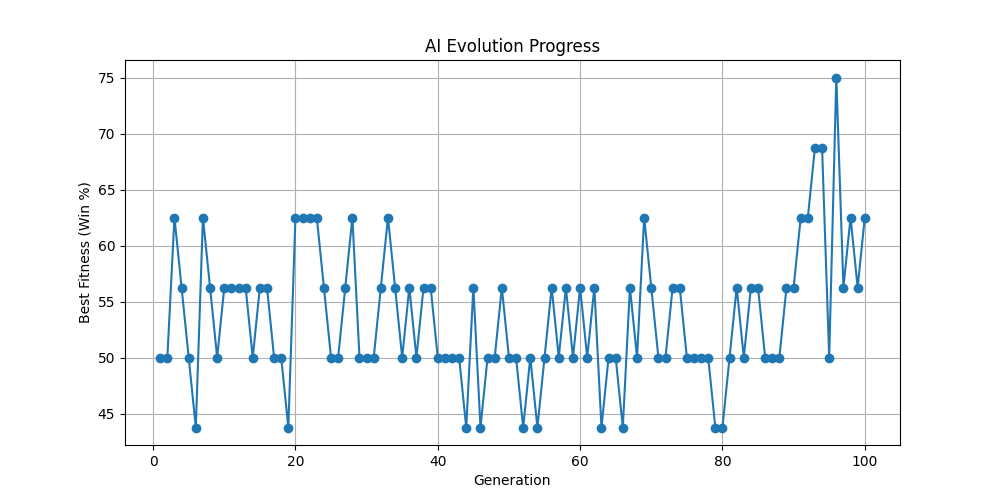
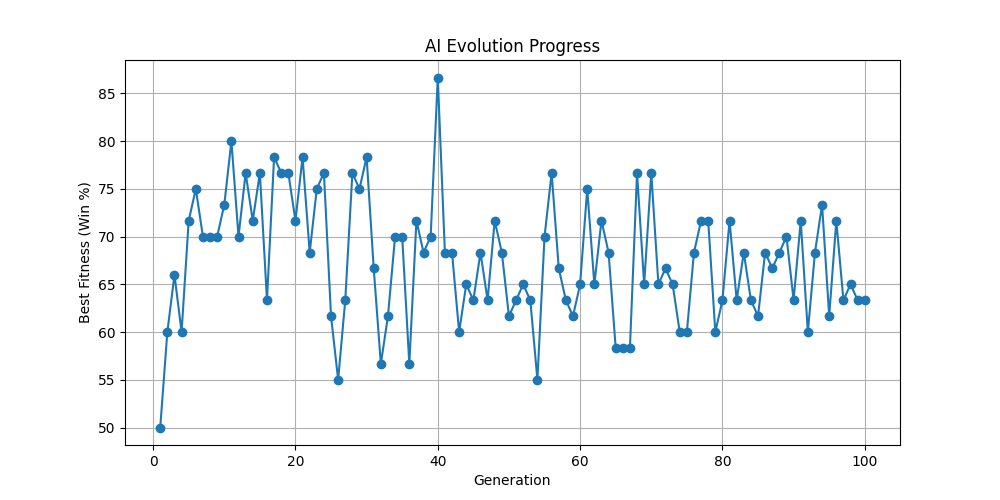
ver6

diff --git a/ga_manager.py b/ga_manager.py
@@ -1,7 +1,36 @@
 import random
 import json
+import multiprocessing
+from concurrent.futures import ProcessPoolExecutor
 from engine import GomokuAnalyzer
 import matplotlib.pyplot as plt
+
+
+# --- 1. 対戦ロジックをトップレベルに移動（並列化のため） ---
+def play_match_worker(args):
+    """
+    並列実行用ワーカー。重みデータのみを受け取って対戦させる。
+    """
+    w1, w2, depth, start_player = args
+    board = GomokuAnalyzer()
+    board.board.fill(0)
+    
+    # 評価関数の重みをセット
+    weights = [None, w1, w2] 
+    
+    current_turn = start_player
+    for _ in range(15 * 15):
+        board.weights = weights[current_turn]
+        r, c = board.get_best_move(depth_limit=depth)
+        
+        if r is not None:
+            board.put_stone(r, c, current_turn)
+            if board.check_win(r, c, current_turn):
+                return current_turn
+        else:
+            return 0 # 引き分け
+        current_turn = 3 - current_turn
+    return 0
 
 class Individual:
     def __init__(self, weights=None):
@@ -10,109 +39,97 @@ class Individual:
             self.analyzer.weights = weights.copy()
         else:
             self.randomize_weights()
-        self.fitness = 0.0  # 勝率（%）
+        self.fitness = 0.0
 
     def randomize_weights(self):
+        # 3. 加算的な初期化（0付近の重みも動くようにする）
         for key in self.analyzer.weights:
-            base_val = self.analyzer.weights[key]
-            # 初期値の0.7～1.3倍の範囲でランダム化
-            self.analyzer.weights[key] = base_val * random.uniform(0.7, 1.3)
-
-def play_match(player1, player2, depth=1):
-    """
-    2つの個体を対戦させる。
-    depth: 探索深さ（デフォルト1）
-    戻り値: 1 (player1勝利), 2 (player2勝利), 0 (引き分け)
-    """
-    board_analyzer = player1.analyzer
-    board_analyzer.board.fill(0)
-    board_analyzer.move_history = []
-    
-    current_turn = 1
-    for _ in range(15 * 15):
-        current_ai = player1 if current_turn == 1 else player2
-        board_analyzer.weights = current_ai.analyzer.weights
-        
-        r, c = board_analyzer.get_best_move(depth_limit=depth)
-        
-        if r is not None:
-            board_analyzer.put_stone(r, c, current_turn)
-            if board_analyzer.check_win(r, c, current_turn):
-                return current_turn
-        else:
-            return 0  # 引き分け（盤面が埋まった）
-        current_turn = 3 - current_turn
-    return 0
+            self.analyzer.weights[key] += random.uniform(-100, 100)
 
 class Generation:
-    def __init__(self, size=16):  # 個体数を16に減らして高速化
+    def __init__(self, size=16):
         self.individuals = [Individual() for _ in range(size)]
         self.generation_number = 1
+        self.hall_of_fame = [] # 歴代最強個体のリスト
 
-    # 修正後のイメージ
-    def evaluate_all(self, elite=None):
-        print(f"第 {self.generation_number} 世代の評価中...")
+    def evaluate_all(self):
+        print(f"第 {self.generation_number} 世代の評価中（並列処理実行中）...")
         
-        # あなたが最初に決めた「初期値」を持つ個体を生成
-        default_analyzer = GomokuAnalyzer()
-        default_ind = Individual(weights=default_analyzer.weights)
-
-        for ind1 in self.individuals:
-            ind1.fitness = 0.0
+        default_weights = GomokuAnalyzer().weights
+        tasks = []
+        
+        # 各個体のタスクを作成
+        for idx, ind in enumerate(self.individuals):
+            # 対戦相手のリスト（デフォルト個体 + HOF個体 + ランダムな仲間2人）
+            opponents = [default_weights]
+            if self.hall_of_fame:
+                opponents.extend(self.hall_of_fame)
             
-            # 対戦相手の数を3人に増やす
-            opponents = [default_ind] + random.sample([i for i in self.individuals if i != ind1], 2)  # 初期個体＋仲間2人
-            if elite:
-                opponents.append(elite)
-            else:
-                # 最初の世代は仲間から選ぶ
-                others = [i for i in self.individuals if i != ind1]
-                opponents.append(random.choice(others))
+            others = [i.analyzer.weights for i in self.individuals if i != ind]
+            opponents.extend(random.sample(others, min(len(others), 2)))
 
-            games_per_pair = 4 
-            for opponent in opponents:
-                for game in range(games_per_pair):
-                    # ここは以前と同じ勝敗ロジック
-                    if game % 2 == 0:
-                        winner = play_match(ind1, opponent, depth=1)
-                        if winner == 1: ind1.fitness += 1
-                    else:
-                        winner = play_match(opponent, ind1, depth=1)
-                        if winner == 2: ind1.fitness += 1
+            # 各相手と先手・後手2回ずつ（計4試合以上）
+            for opp_w in opponents:
+                for game in range(2):
+                    # args: (重み1, 重み2, depth, 先手)
+                    tasks.append((idx, ind.analyzer.weights, opp_w, 1, 1 if game == 0 else 2))
 
-            # 勝率（%）に変換
-            ind1.fitness = (ind1.fitness / (len(opponents) * games_per_pair)) * 100
-        
+        # 2. 並列処理の実行
+       # evaluate_all メソッド内
+        with ProcessPoolExecutor(max_workers=8) as executor:
+            results = list(executor.map(play_match_worker, [(t[1], t[2], t[3], t[4]) for t in tasks]))
+        # 結果の集計
+        for (task, winner) in zip(tasks, results):
+            idx = task[0]
+            start_player = task[4]
+            # 自分が勝った場合（自分が先手で1、または後手で2）
+            if (start_player == 1 and winner == 1) or (start_player == 2 and winner == 2):
+                self.individuals[idx].fitness += 1.0
+            elif winner == 0:
+                self.individuals[idx].fitness += 0.2 # 引き分けにも微少な加点
+
+        # 勝率に換算（試合数で割る）
+        matches_per_ind = len(tasks) // len(self.individuals)
+        for ind in self.individuals:
+            ind.fitness = (ind.fitness / matches_per_ind) * 100
 
     def evolve(self):
-        # fitnessの高い順にソート
         self.individuals.sort(key=lambda x: x.fitness, reverse=True)
         
-        # 上位25%（エリート）を残す（最低1体）
-        elite_count = max(1, len(self.individuals) // 4)
-        next_gen = self.individuals[:elite_count]
+        # 1. Hall of Fame の更新（現世代の1位を保存）
+        best_w = self.individuals[0].analyzer.weights.copy()
+        if not self.hall_of_fame:
+            self.hall_of_fame.append(best_w)
+        else:
+            # 過去のHOFより強ければ入れ替え、あるいは追加
+            self.hall_of_fame = [best_w] + self.hall_of_fame[:2] # 直近3世代のベストを保持
+
+        # エリート保存（上位2体）
+        next_gen = [Individual(weights=i.analyzer.weights) for i in self.individuals[:2]]
         
-        # 残りの枠を子供で埋める
+        # 4. トーナメント選択による次世代生成
         while len(next_gen) < len(self.individuals):
-            parent1 = random.choice(self.individuals[:elite_count])
-            parent2 = random.choice(self.individuals[:elite_count])
+            p1 = self.tournament_selection()
+            p2 = self.tournament_selection()
             
-            # 一様交叉
+            # 交叉
             child_weights = {}
-            for key in parent1.analyzer.weights:
-                if random.random() < 0.5:
-                    child_weights[key] = parent1.analyzer.weights[key]
-                else:
-                    child_weights[key] = parent2.analyzer.weights[key]
+            for key in p1.analyzer.weights:
+                child_weights[key] = p1.analyzer.weights[key] if random.random() < 0.5 else p2.analyzer.weights[key]
                 
-                # 突然変異（10%の確率で0.8～1.2倍）
+                # 3. 加算的な突然変異
                 if random.random() < 0.2:
-                    child_weights[key] *= random.uniform(0.5, 1.5)
+                    child_weights[key] += random.uniform(-200, 200) # スケールに合わせて調整
             
             next_gen.append(Individual(weights=child_weights))
         
         self.individuals = next_gen
         self.generation_number += 1
+
+    def tournament_selection(self, k=3):
+        """k個体をランダムに選び、最も優秀なものを親にする"""
+        selected = random.sample(self.individuals, k)
+        return max(selected, key=lambda x: x.fitness)
 
 def save_fitness_graph(history):
     gens = [h['gen'] for h in history]
@@ -129,16 +146,19 @@ def save_fitness_graph(history):
     plt.show()
 
 if __name__ == "__main__":
-    gen = Generation(size=16)  # 個体数16でスタート
-    history = []
-    current_best_ind = None
+    # Windowsで並列処理を行うためにこれが必要です
+    multiprocessing.freeze_support() 
 
-    for i in range(100):  # 100世代
-        gen.evaluate_all(elite=current_best_ind)
+    gen = Generation(size=16) 
+    history = []
+
+    for i in range(100):
+        # 修正ポイント：引数の (elite=current_best_ind) を消す
+        gen.evaluate_all() 
         
+        # 評価後にソートして、その世代のベストを記録
         gen.individuals.sort(key=lambda x: x.fitness, reverse=True)
         best_ind = gen.individuals[0]
-        current_best_ind = gen.individuals[0]
 
         print(f"--- 第 {i+1} 世代 終了 ---")
         print(f"最高勝率: {best_ind.fitness:.2f}%")

diff --git a/engine.py b/engine.py
@@ -16,11 +16,17 @@ class GomokuAnalyzer:
             'open_three': 1500,
             'dead_three': 200,
             'open_two': 50,
-            'defense_weight': 1.2,  # 防御の重要度
+            'defense_weight': 1.2,
+            # --- 守備専用の重み ---
+            'def_open_four': 50000,
+            'def_open_three': 2000,
+            'def_dead_three': 300,
+            # --- その他の重み ---
             'fork_44': 15000, 
             'fork_43': 8000, 
             'fork_33': 3000, 
-            'center_bonus': 100
+            'center_bonus': 100,
+            'continuity_weight': 100 
         }
 
     def put_stone(self, r, c, player):
@@ -95,7 +101,7 @@ class GomokuAnalyzer:
                     max_score = score
             
             # 活三(>=1000)以上を緊急脅威として扱う（活四=12000, 五連=100000等）
-            if max_score >= 1000:
+            if max_score >= self.weights['open_three']:
                 threats.append((r, c, max_score))
         
         # スコア順（降順）にして返す
@@ -230,13 +236,14 @@ class GomokuAnalyzer:
             
             for dr, dc in directions:
                 opp_score = self.evaluate_pattern(r, c, dr, dc, opponent)
-                # 相手の強い脅しを防ぐ価値
-                if opp_score >= 10000:  # 相手の活四を防ぐ
-                    defense_score += 50000
-                elif opp_score >= 1000:  # 相手の活三を防ぐ
-                    defense_score += 2000
-                elif opp_score >= 200:   # 相手の眠三を防ぐ
-                    defense_score += 300
+                # 相手の脅威レベルに応じた防御ボーナス（防御用重みを使用）
+                if opp_score >= self.weights['open_four']:
+                    defense_score += self.weights['def_open_four']
+                elif opp_score >= self.weights['open_three']:
+                    defense_score += self.weights['def_open_three']
+                elif opp_score >= self.weights['dead_three']:
+                    defense_score += self.weights['def_dead_three']
+                # 必要に応じてさらに低い脅威（dead_twoなど）も追加可能
             
             # 中央性ボーナス
             center = self.size // 2
@@ -298,7 +305,7 @@ class GomokuAnalyzer:
                     break
             
             if count >= 2:
-                bonus += 100 * count  # 既に並んでいる石の近くに打つボーナス
+                bonus += self.weights.get('continuity_weight', 100) * count
         
         return bonus
         

diff --git a/evaluate_evolution.py b/evaluate_evolution.py
@@ -1,6 +1,6 @@
 # evaluate_evolution.py
 import json
-from ga_manager import Individual, play_match
+from ga_manager import Individual, play_match_worker
 from engine import GomokuAnalyzer
 
 def main():
@@ -9,7 +9,7 @@ def main():
     default_ind = Individual(weights=default.weights)
     
     # 進化個体
-    with open("best_weights_ver5.txt", "r") as f:
+    with open("best_weights_ver6.txt", "r") as f:
         best = json.load(f)
     best_ind = Individual(weights=best)
     
@@ -24,10 +24,15 @@ def main():
         "draw": 0
     }
     
-    for i in range(100):  # 1000回対戦
+    for i in range(10):  # 1000回対戦
         if i % 2 == 0:
             # 進化個体が先手、初期個体が後手
-            winner = play_match(best_ind, default_ind)
+            winner = play_match_worker((
+                best_ind.analyzer.weights,   # 先手の重み
+                default_ind.analyzer.weights, # 後手の重み
+                1,                            # depth
+                1                              # 先手 (1: 先手がbest)
+            ))
             if winner == 1:
                 results["best_first"] += 1
             elif winner == 2:
@@ -36,7 +41,12 @@ def main():
                 results["draw"] += 1
         else:
             # 初期個体が先手、進化個体が後手
-            winner = play_match(default_ind, best_ind)
+            winner = play_match_worker((
+                default_ind.analyzer.weights, # 先手の重み
+                best_ind.analyzer.weights,    # 後手の重み
+                1,                             # depth
+                1                               # 先手 (1: 先手がdefault)
+            ))
             if winner == 1:
                 results["default_first"] += 1
             elif winner == 2:
